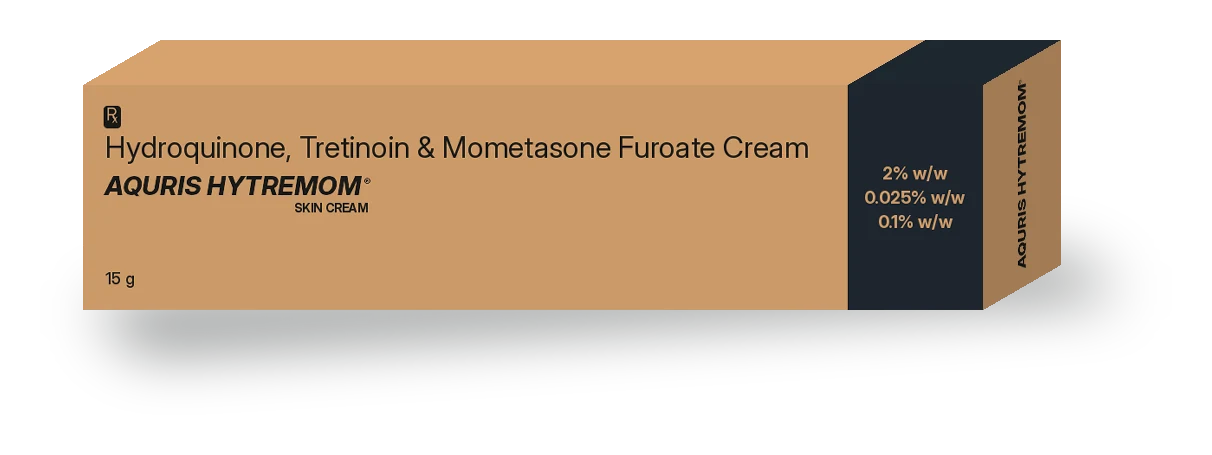
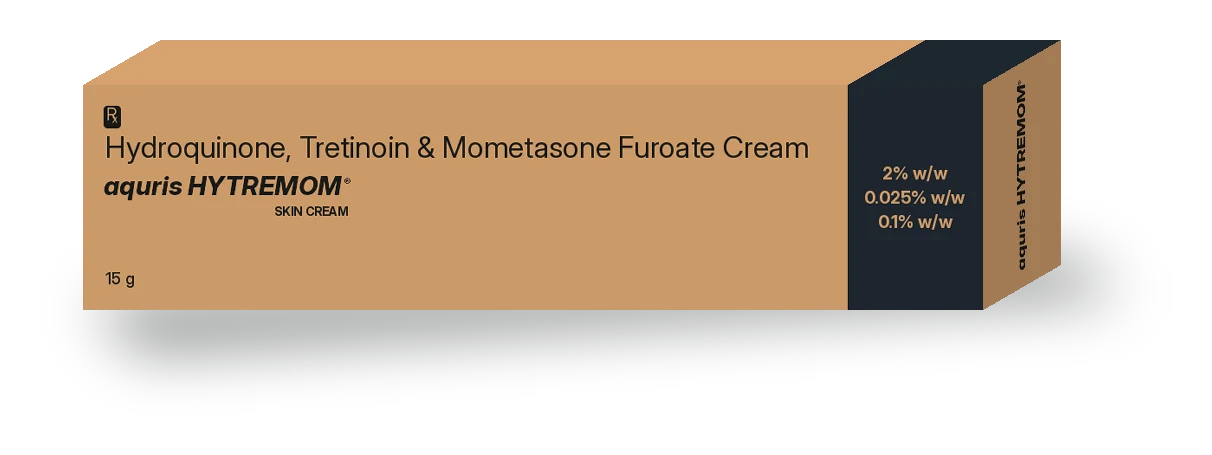
Mock-ups: lowercase "aquris" on Omzole D, Hytremom and Parasyp 250
The (R) stays on the registered word mark (after OMZOLE and HYTREMOM), never
straight after "aquris". Brand guidelines record the rule.

Claude-Session: https://claude.ai/code/session_01YNdkZ2f25Pdtv5V1TQM9dx

Changed region(s): [[0.0611, 0.3692, 0.3053, 0.4923], [0.8243, 0.1846, 0.8548, 0.5846]]

diff --git a/.claude/skills/auspharma-brand-guidelines/SKILL.md b/.claude/skills/auspharma-brand-guidelines/SKILL.md
@@ -142,8 +142,11 @@ distinct on brown board.
   - Mono-carton treatment (solid therapy panel over white) only for products that have a mono carton
     (today: Azithcin). Everything else gets the outer treatment: bare kraft, one therapy panel, black text.
   - No "+a" mark unless the previous artwork carries it.
-  - Put ® / ™ exactly where the previous artwork has it (e.g. "AQURIS OMZOLE®D", "AQURIS HYTREMOM®");
-    no mark where the artwork has none. Don't add a WHO-GMP seal the artwork doesn't have.
+  - Put ® / ™ exactly where the previous artwork has it (e.g. "aquris OMZOLE®D", "aquris HYTREMOM®");
+    no mark where the artwork has none.
+  - Write "aquris" in lowercase before the product name (AUSPHARMA, 28 Nov 2026). The word marks are
+    registered as "AQURIS OMZOLE" etc., and a change of case keeps the same mark, but the ® must sit on
+    the full registered mark, never straight after "aquris" (AQURIS alone is not yet registered). Don't add a WHO-GMP seal the artwork doesn't have.
   - Generator: `scripts/make-mockup.py <spec.json> <outdir>`.
 
 ## 5. Typography
